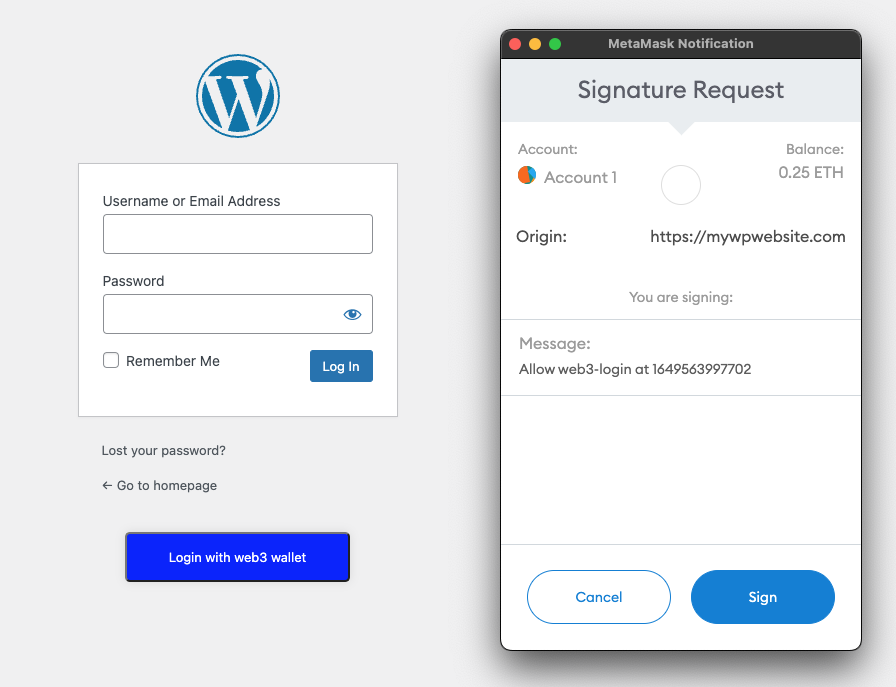
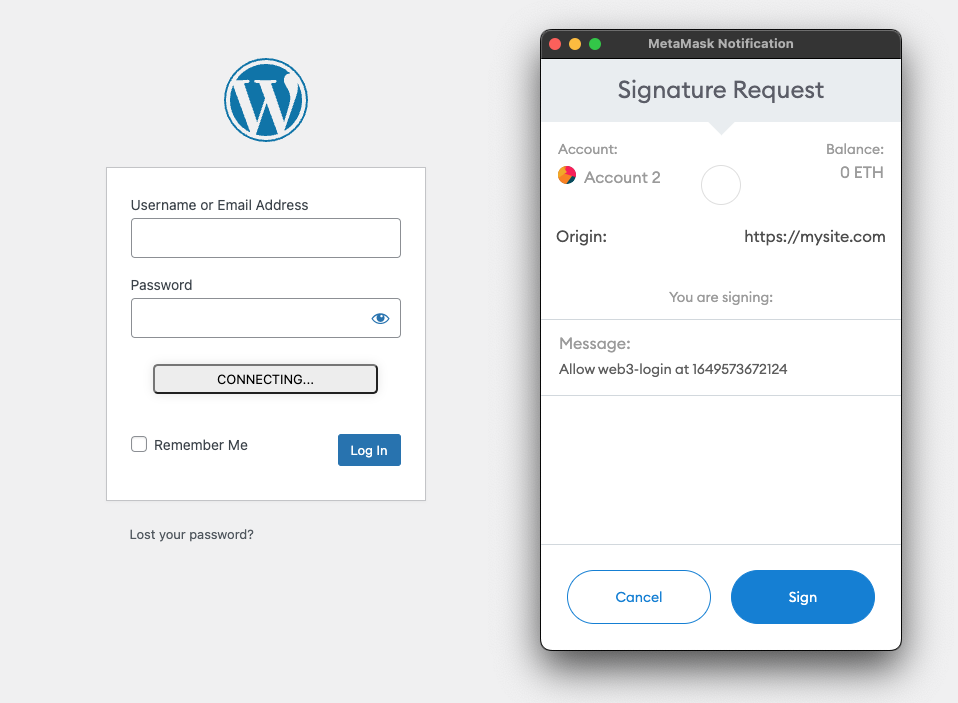
move button placement on login form.

diff --git a/public/css/web3-login-styles.css b/public/css/web3-login-styles.css
@@ -5,15 +5,18 @@
     justify-content: center;
 }
 .web3-login-button-wrapper button {
-    width: 70%;
-    height: 50px;
+    width: 100%;
     max-width: 225px;
     background-color: blue;
     color: white;
     border-radius: 5px;
-    box-shadow: 0px 0px 10px rgba(0, 0, 0, 0.1);
-    padding: 10 15px;
-    margin: 20px 0;
+    box-shadow: 0px 0px 10px rgb(0 0 0 / 10%);
+    padding: 5px 0;
+    margin: 10px 0 20px 0;
+    background: #ededed;
+    color: black;
+    text-transform: uppercase;
+    cursor: pointer;
 }
 
 .web3loginMsg {

diff --git a/web3-login.php b/web3-login.php
@@ -134,7 +134,7 @@ if ( ! class_exists( 'WEB3_LOGIN' ) ) :
 		 *
 		 * @return void
 		 */
-		public function setupLoginpage() {
+		protected function setupLoginpage() {
 
 			// Enable login form adjustments if web3-login is enabled.
 			$settings = get_option('web3-login_options') ?? [];
@@ -159,7 +159,7 @@ if ( ! class_exists( 'WEB3_LOGIN' ) ) :
 
 
 				// Add our login button.
-				add_action('login_footer', function() {
+				add_action('login_form', function() {
 					$buttonText = _('Login with web3 wallet', 'web3-login');
 					echo '<div class="web3-login-button-wrapper"><button type="button" id="web3loginConnect">' . $buttonText . '</button><div class="web3loginMsg"></div></div>';
 				});
@@ -172,10 +172,6 @@ if ( ! class_exists( 'WEB3_LOGIN' ) ) :
 		 * Check an authenication attempt.
 		 */
 		public static function checkLogin() {
-
-			ini_set('display_errors', 1);
-			ini_set('display_startup_errors', 1);
-			error_reporting(E_ALL);
 
 			// Check correct variables were sent;
 			$address = sanitize_text_field($_POST['address']) ?? '';
@@ -552,14 +548,6 @@ if ( ! class_exists( 'WEB3_LOGIN' ) ) :
 
 		}
 
-
-		/**
-		 * Set defaults on activation.
-		 */
-		public static function activate() {
-
-		}
-
 		/**
 		 * Perform actions during plugin deactivation.
 		 */
@@ -638,8 +626,7 @@ if ( ! class_exists( 'WEB3_LOGIN' ) ) :
 	}
 	
 	add_action( 'plugins_loaded', array( 'WEB3_LOGIN', 'init' ) );
-	// register_activation_hook( __FILE__, array( __CLASS__, 'activate' ) );
-	// register_deactivation_hook( __FILE__, array( __CLASS__, 'deactivate' ) );
 	register_activation_hook( __FILE__, array( 'WEB3_LOGIN', 'web3_install') );
+	register_deactivation_hook( __FILE__, array( 'WEB3_LOGIN', 'deactivate' ) );
 
 endif;
